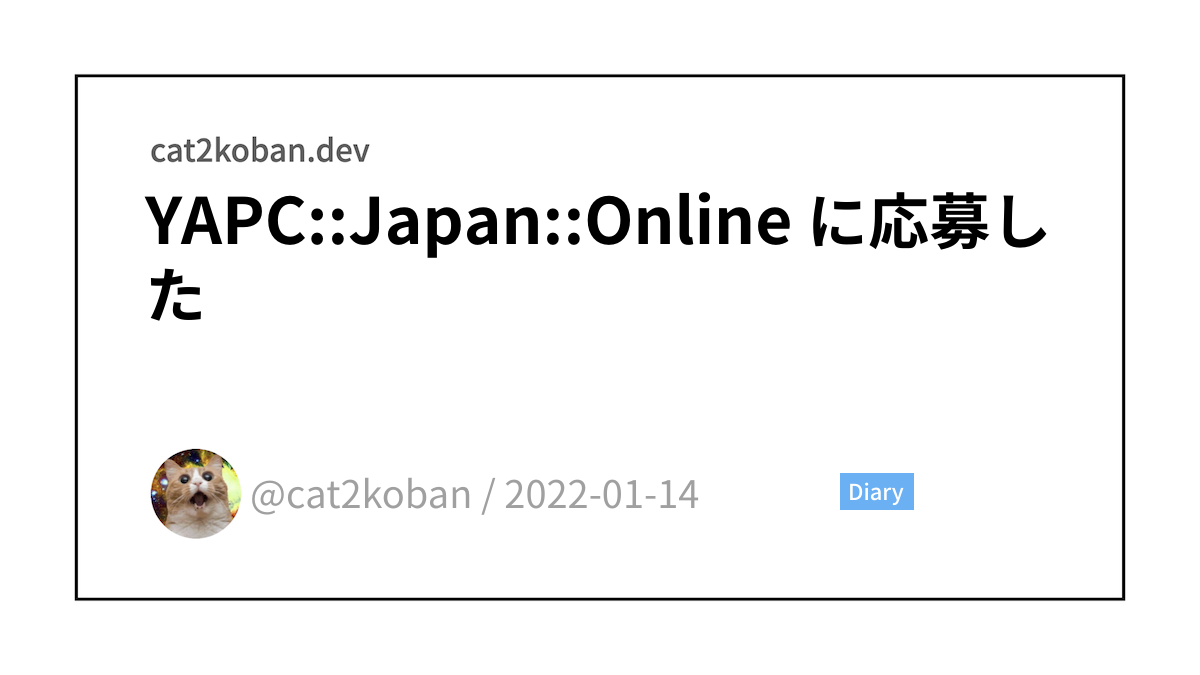
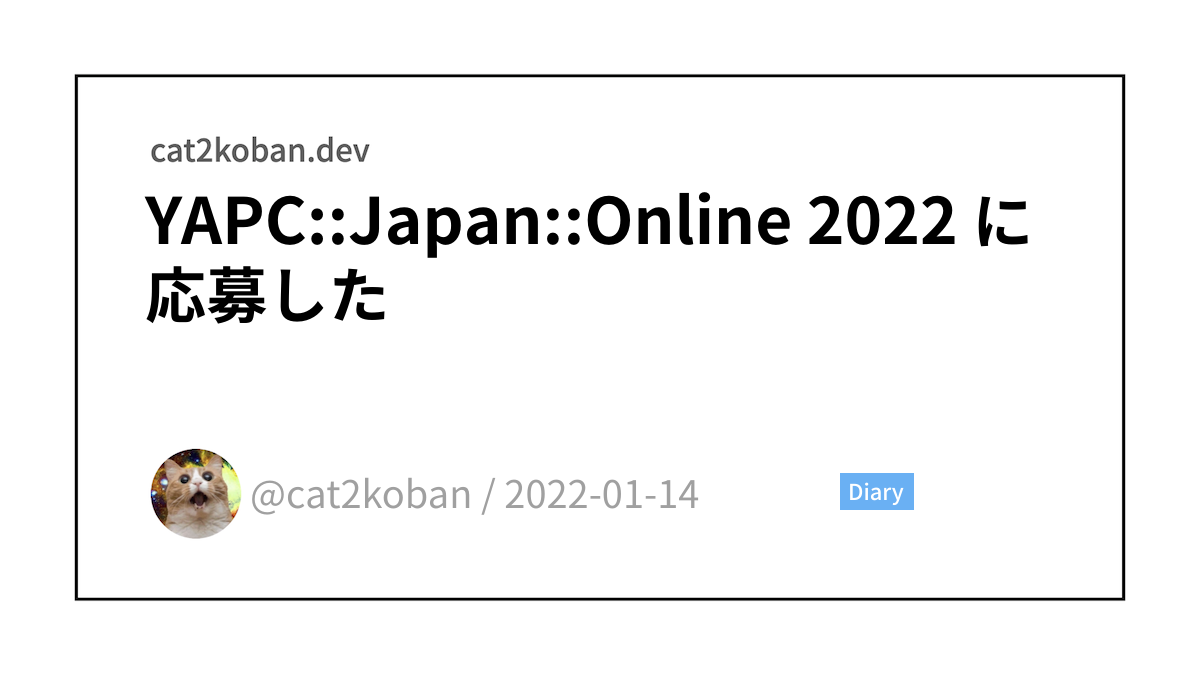
Fix title

Changed region(s): [[0.6783, 0.28, 0.8942, 0.3733], [0.1233, 0.3733, 0.3392, 0.4978]]

diff --git a/content/posts/2022-01-14.md b/content/posts/2022-01-14.md
@@ -1,6 +1,6 @@
 ---
 categories: ["hoge"]
-title: "YAPC::Japan::Online に応募した"
+title: "YAPC::Japan::Online 2022 に応募した"
 author: cat2koban
 date: 2022-01-14
 tags: ["diary"]
